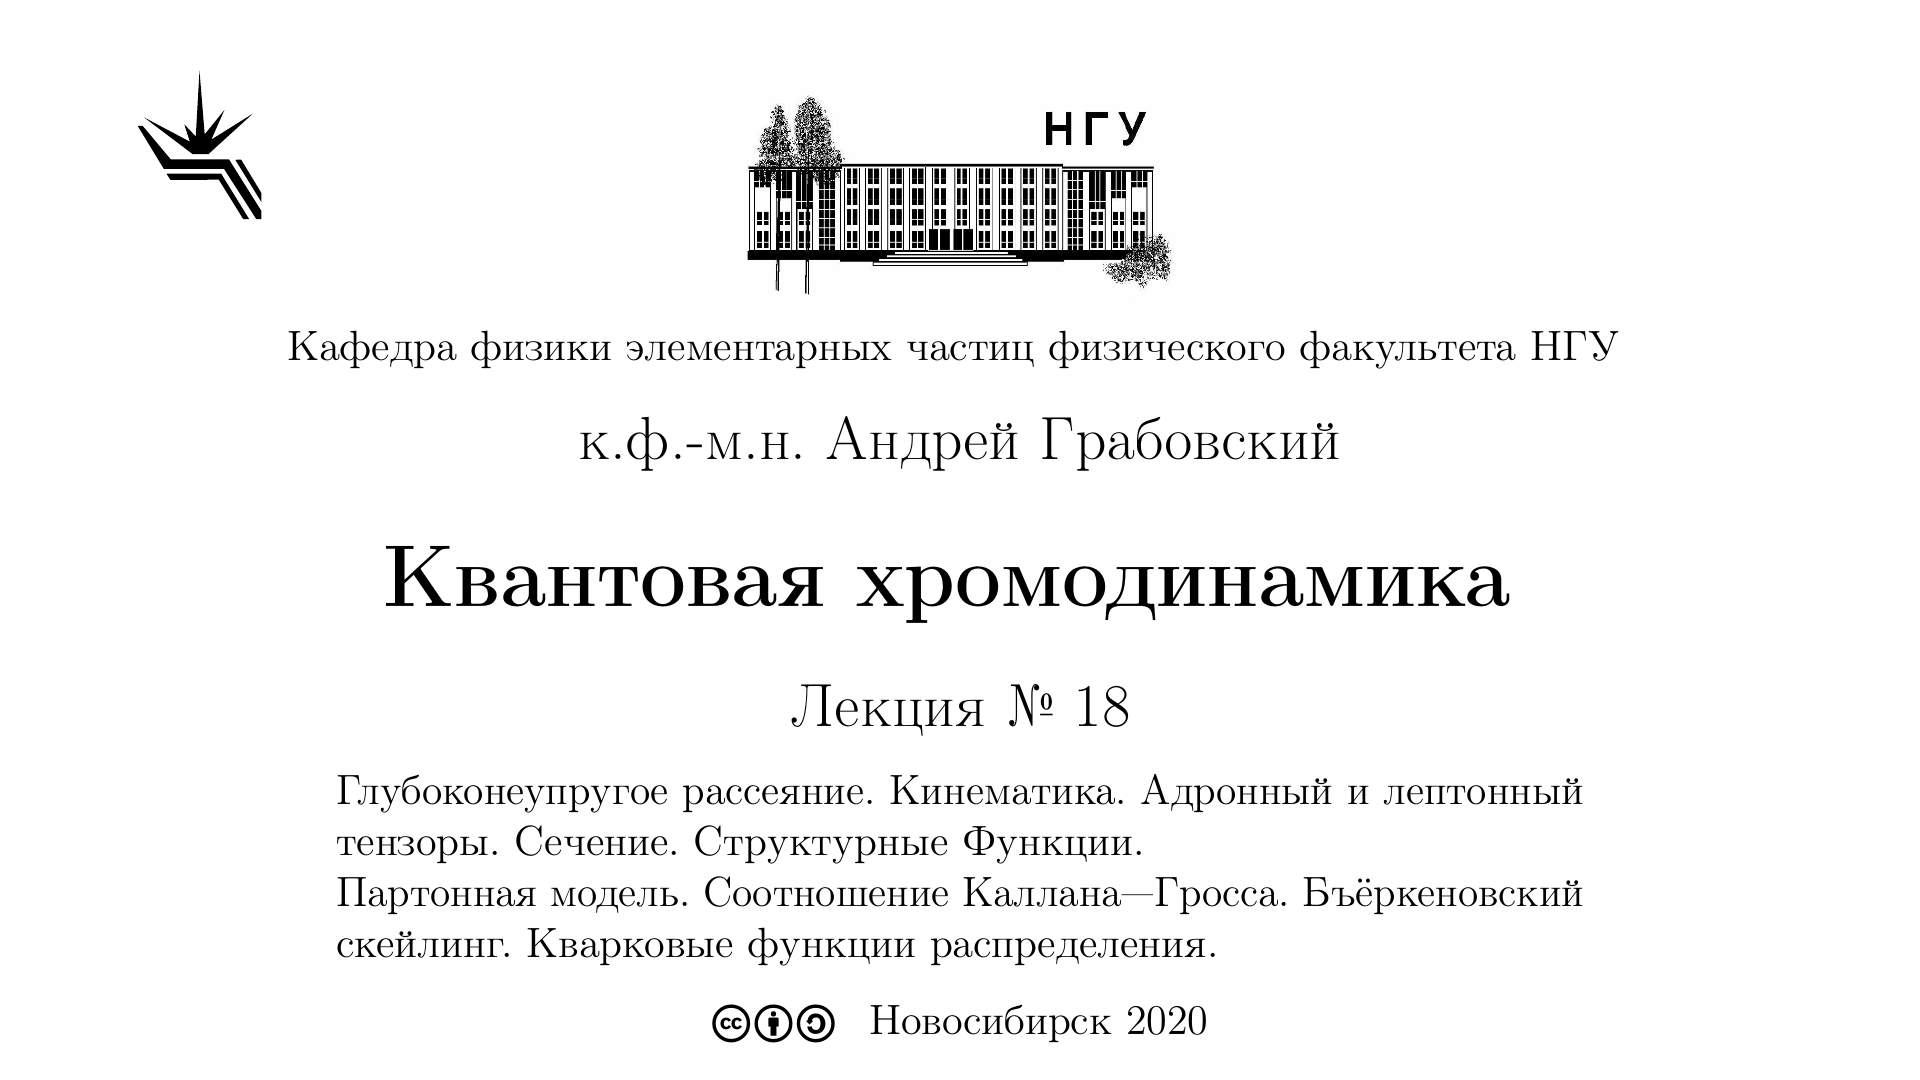
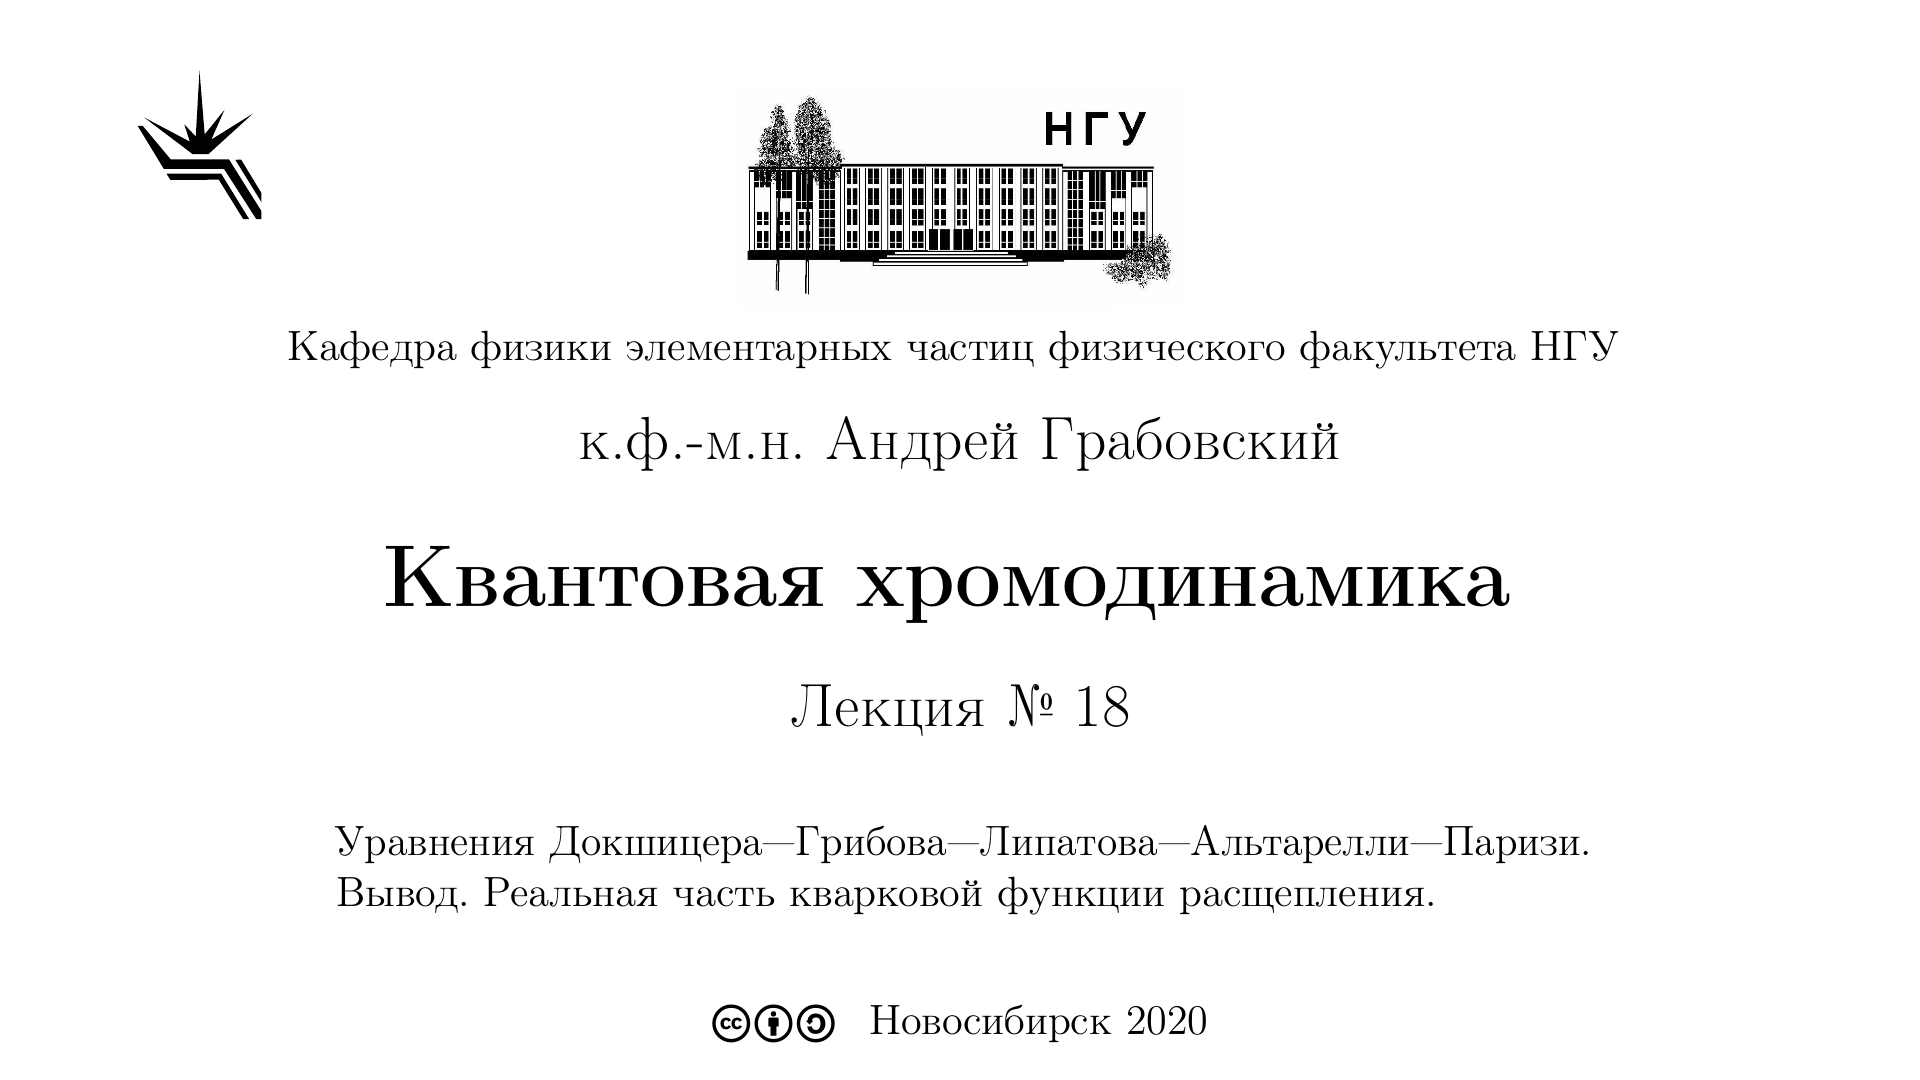
fix description on Covers

Changed region(s): [[0.1562, 0.7028, 0.8438, 0.8861]]

diff --git a/Cover/Grabovsky_Theory_Of_Strong_Interactions_Spring_2020/Grabovsky_Theory_Of_Strong_Interactions_Lecture19.tex b/Cover/Grabovsky_Theory_Of_Strong_Interactions_Spring_2020/Grabovsky_Theory_Of_Strong_Interactions_Lecture19.tex
@@ -56,10 +56,11 @@
     \vfill
 
     \normalsize
-    \begin{minipage}{0.65\linewidth}
-      Уравнения
-      Докшицера"--~Грибова"--~Липатова"--~Альтарелли"--~Паризи. Вывод.
-      Реальная часть кварковой функции расщепления.
+    \begin{minipage}{0.7\linewidth}
+      Кварковые правила сумм. Морские и валентные кварки. Плюс
+      прескрипция.  Виртуальная часть кварковой функции расщепления.
+
+      Коллинеарная факторизация. Главное логарифмическое приближение.
     \end{minipage}
     \vfill
 

diff --git a/Cover/Grabovsky_Theory_Of_Strong_Interactions_Spring_2020/Grabovsky_Theory_Of_Strong_Interactions_Lecture18.tex b/Cover/Grabovsky_Theory_Of_Strong_Interactions_Spring_2020/Grabovsky_Theory_Of_Strong_Interactions_Lecture18.tex
@@ -57,11 +57,9 @@
 
     \normalsize
     \begin{minipage}{0.65\linewidth}
-      Глубоконеупругое рассеяние. Кинематика. Адронный и лептонный
-      тензоры.  Сечение. Структурные Функции.
-
-      Партонная модель. Соотношение Каллана"--~Гросса. Бъёркеновский
-      скейлинг. Кварковые функции распределения.
+      Уравнения
+      Докшицера"--~Грибова"--~Липатова"--~Альтарелли"--~Паризи. Вывод.
+      Реальная часть кварковой функции расщепления.
     \end{minipage}
     \vfill
 
